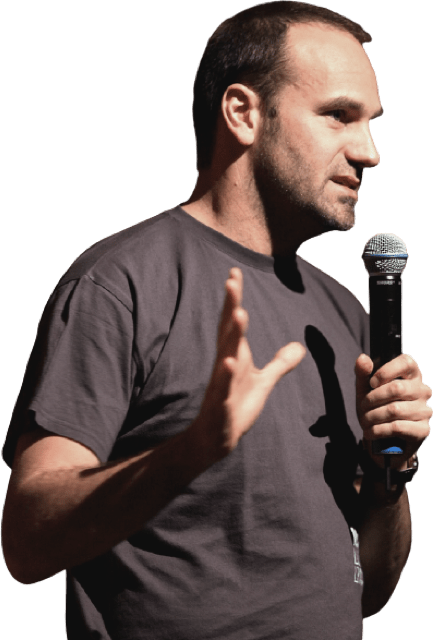
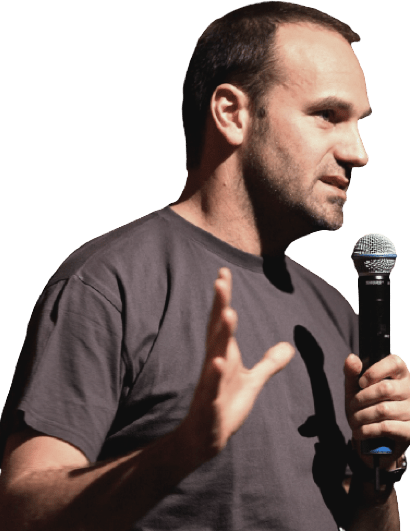
commit 32: edit smooth move in crew

diff --git a/src/Components/crew/Crew.jsx b/src/Components/crew/Crew.jsx
@@ -7,7 +7,7 @@ import DOUGLAS from "../../assets/image/crew/image-douglas-hurley.png";
 import MARK from "../../assets/image/crew/image-mark-shuttleworth.png";
 import VICTOR from "../../assets/image/crew/image-victor-glover.png";
 import ANOUSHEH from "../../assets/image/crew/image-anousheh-ansari.png";
-import PageTransition from './../PageTransition/PageTransition';
+import PageTransition from "./../PageTransition/PageTransition";
 
 const Crew = () => {
   const [activeCrewMember, setActiveCrewMember] = useState(0);
@@ -40,7 +40,7 @@ const Crew = () => {
     {
       id: 1,
       role: "MISSION SPECIALIST",
-      name: "MARK SHUTTLEWORTH",
+      name: "MARK SHUTTLEWORTH ",
       bio: "Mark Richard Shuttleworth is the founder and CEO of Canonical, the company behind the Linux-based Ubuntu operating system. Shuttleworth became the first South African to travel to space as a space tourist.",
       imageUrl: MARK,
     },
@@ -69,7 +69,6 @@ const Crew = () => {
     }, 300);
   };
 
-  // swipe handlers
   const swipeHandlers = useSwipeable({
     onSwipedLeft: () => {
       const nextIndex = (activeCrewMember + 1) % crewMembers.length;
@@ -103,17 +102,17 @@ const Crew = () => {
             </div>
           </div>
 
-          <main className="flex-1 flex flex-col lg:flex-row items-center lg:items-end justify-between gap-8">
+          <main className="flex-1 flex flex-col lg:flex-row items-center lg:items-end justify-between gap-8 mt-10">
             <div
-              className={`w-full lg:w-[35%] order-last lg:order-last h-full flex items-center justify-center transition-opacity duration-300 ${
+              className={`w-full lg:w-[35%] order-last h-full flex items-center justify-center transition-all duration-700 ${
                 fade ? "opacity-0" : "opacity-100"
               }`}
             >
-              <div className="relative w-full h-full flex justify-center lg:justify-start lg:right-25 max-h-[900px]  overflow-visible">
+              <div className="relative w-full flex justify-center lg:justify-start max-h-[500px]">
                 <img
                   src={currentMember.imageUrl}
                   alt={currentMember.name}
-                  className="object-contain object-bottom h-full  w-full md:w-[50%] lg:w-[90%] floating-img"
+                  className="object-contain object-bottom h-auto max-h-[250px] md:max-h-[500px] lg:max-h-[620px] w-[60%] sm:w-[55%] md:w-[50%] lg:w-[100%] transition-all duration-700"
                   style={{
                     clipPath: "inset(0 0 -20% 0)",
                     transformOrigin: "bottom center",
@@ -133,12 +132,12 @@ const Crew = () => {
               </div>
             </div>
 
-            <div className="w-full lg:w-1/2 z-10">
-              <div
-                className={`max-w-[500px] mx-auto lg:mx-0 transition-opacity duration-300 mt-10 lg:mb-50 ${
-                  fade ? "opacity-0" : "opacity-100"
-                }`}
-              >
+            <div
+              className={`w-full lg:w-1/2 z-10 transition-all duration-700 ${
+                fade ? "opacity-0" : "opacity-100"
+              }`}
+            >
+              <div className="max-w-[500px] mx-auto lg:mx-0 mt-10 lg:mb-50">
                 <h2 className="text-gray-400 text-xl md:text-2xl mb-2">
                   {currentMember.role}
                 </h2>
@@ -150,13 +149,12 @@ const Crew = () => {
                 </p>
               </div>
 
-              {/* نقاط التحكم */}
               <div className="flex space-x-8 justify-center lg:justify-start my-8 lg:my-0">
                 {crewMembers.map((member, index) => (
                   <button
                     key={member.id}
                     onClick={() => handleChangeMember(index)}
-                    className={`w-3 h-3 rounded-full cursor-pointer transition-colors duration-200 ${
+                    className={`w-3 h-3 rounded-full cursor-pointer transition-none ${
                       activeCrewMember === index
                         ? "bg-white scale-110"
                         : "bg-gray-600 hover:bg-gray-400"
